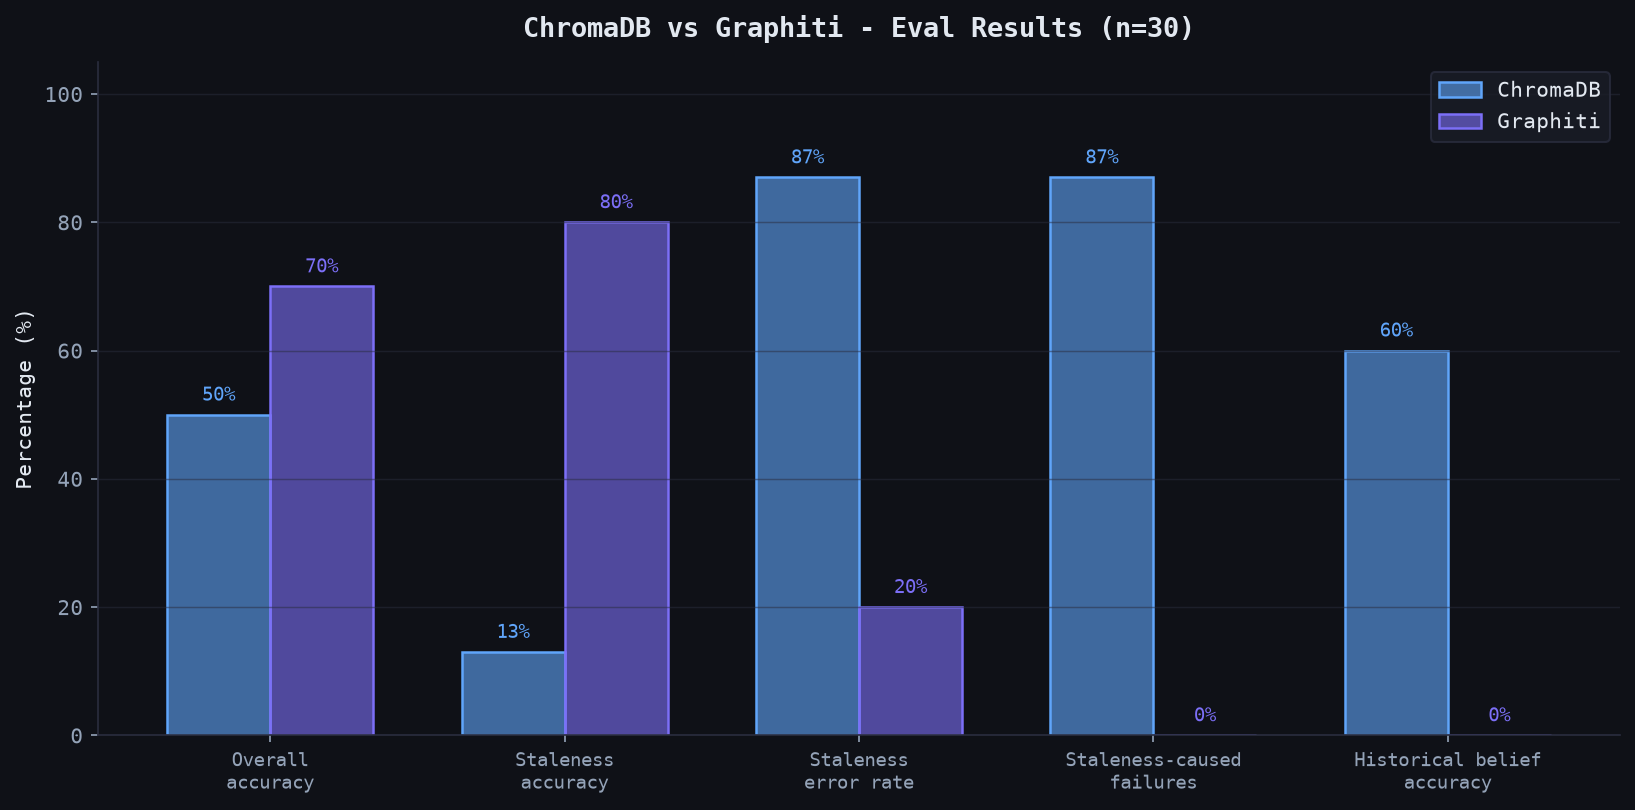
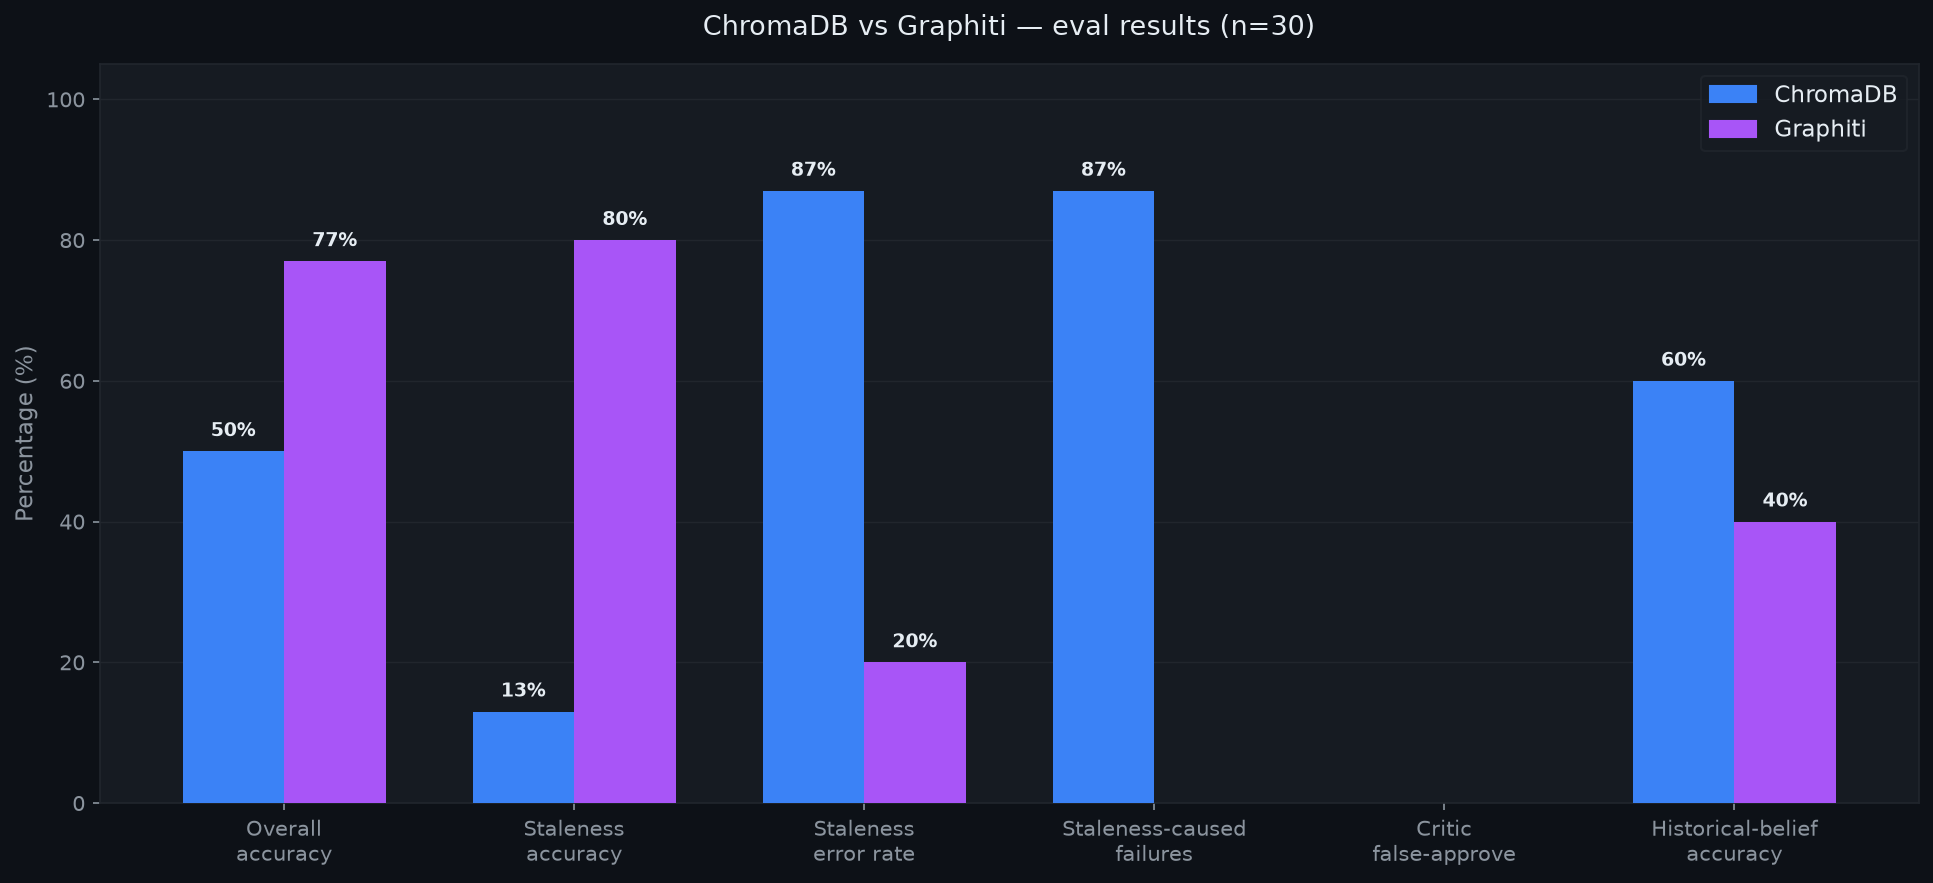
Update results chart and README with revised historical belief numbers

diff --git a/README.md b/README.md
@@ -2,7 +2,7 @@
 
 Empirical A/B test comparing two memory backends in a 4-agent research loop: **ChromaDB** (flat vector RAG) vs **Graphiti + Neo4j** (temporal knowledge graph). Both backends run the same loop with identical agents. Only the injected memory object differs.
 
-**Core finding:** temporal graph memory reduces staleness error from 87% to 20% - but introduces a 100% failure rate on historical belief queries. Full write-up in [`blog.md`](blog.md).
+**Core finding:** temporal graph memory reduces staleness error from 87% to 20%. With point-in-time retrieval enabled via `reference_time`, historical belief accuracy rises from 0% to 40% - remaining failures are 8B synthesis noise, not retrieval failures. Full write-up in [`blog.md`](blog.md).
 
 ---
 
@@ -10,11 +10,11 @@ Empirical A/B test comparing two memory backends in a 4-agent research loop: **C
 
 | Metric | ChromaDB | Graphiti |
 |---|---|---|
-| Overall accuracy (30) | 50% | 70% |
+| Overall accuracy (30) | 50% | 77% |
 | Staleness accuracy (15) | 13% | 80% |
 | Staleness error rate (15) | 87% | 20% |
 | Staleness-caused failures (15) | 87% | 0% |
-| Historical-belief accuracy (5) | 60% | 0% |
+| Historical-belief accuracy (5) | 60% | 40% |
 
 ---
 